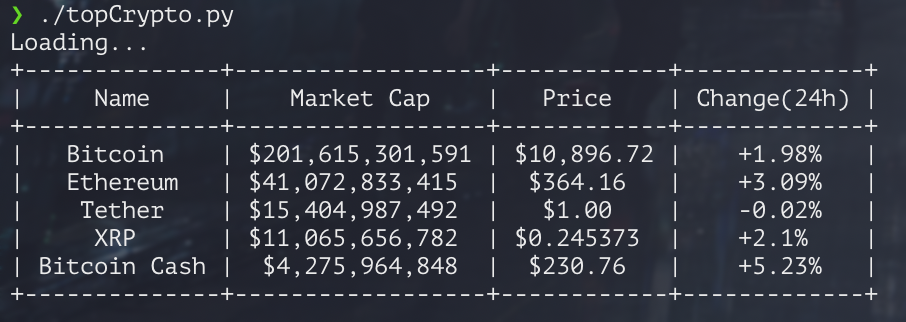
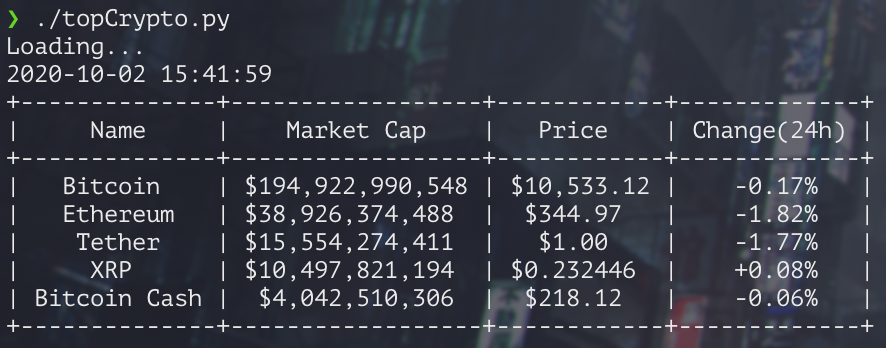
Update topCrypto.py and image

diff --git a/topCrypto.py b/topCrypto.py
@@ -4,9 +4,15 @@
 # Presents data in PrettyTable format
 
 import requests, bs4, prettytable
+import datetime
+
+print('Loading...')
+
+# Print current date and time
+now = datetime.datetime.now()
+print (now.strftime("%Y-%m-%d %H:%M:%S"))
 
 # Parse the home page
-print('Loading...')
 res = requests.get('https://coinmarketcap.com')
 res.raise_for_status()
 soup = bs4.BeautifulSoup(res.text, 'html.parser')
